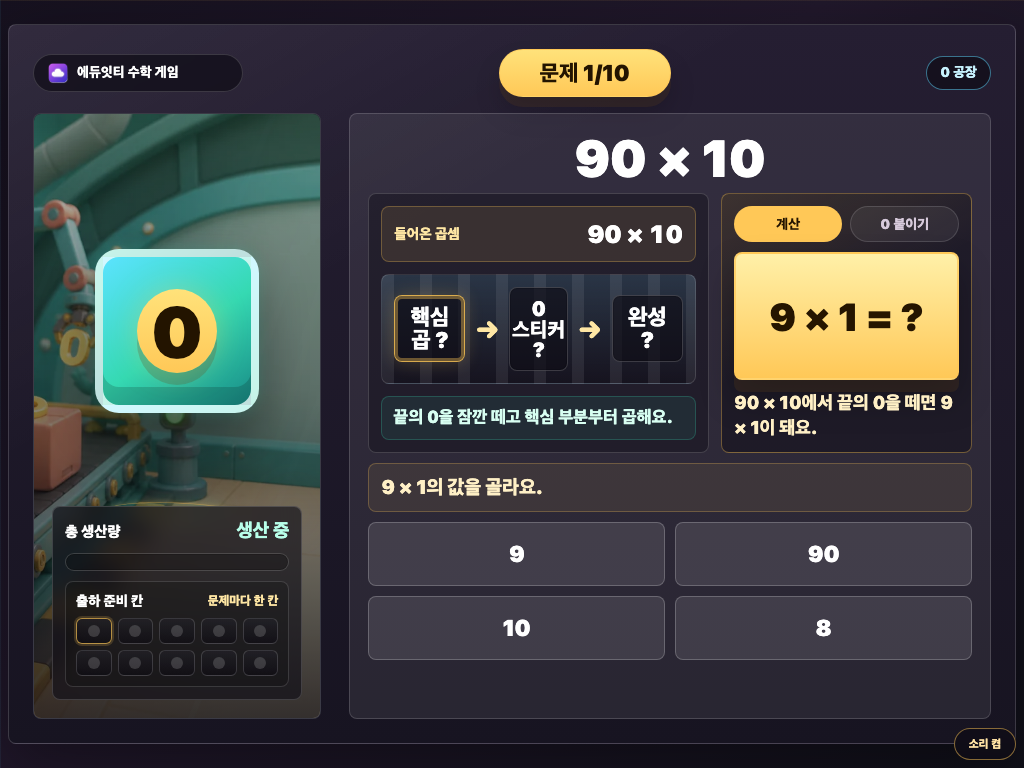
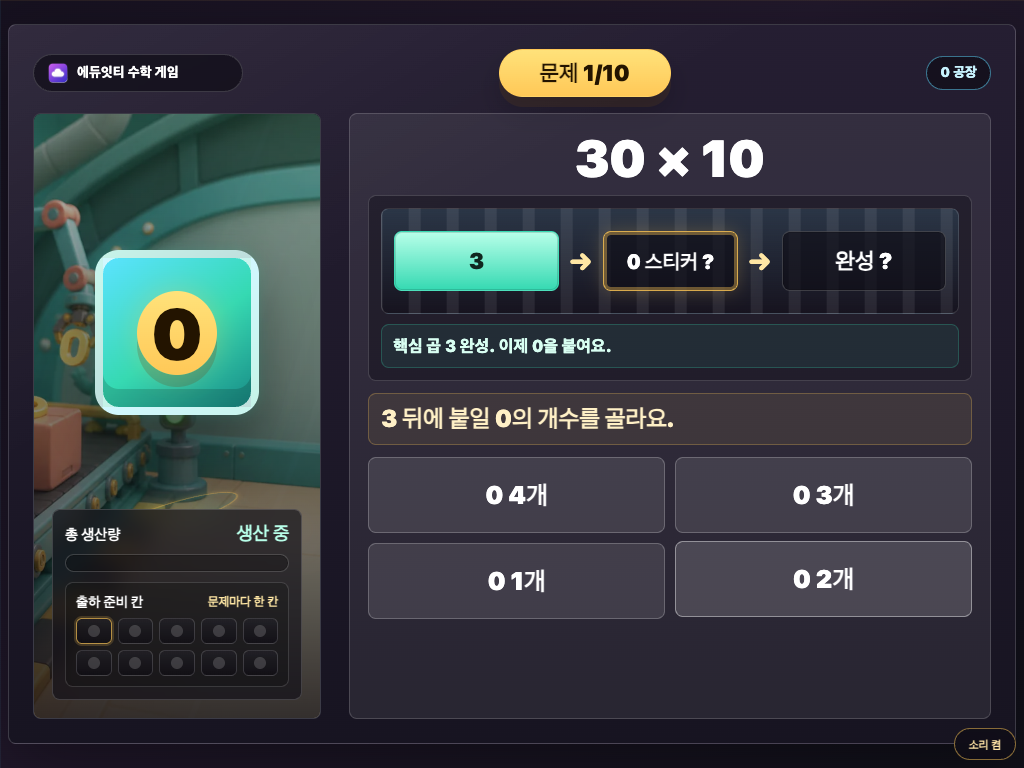
Simplify zero factory problem screen

diff --git a/3-2-1-3-mathmon-zero-factory/index.html b/3-2-1-3-mathmon-zero-factory/index.html
@@ -1119,8 +1119,8 @@
 
     .problem-panel {
       display: grid;
-      grid-template-rows: auto auto 1fr auto;
-      gap: 10px;
+      grid-template-rows: auto auto auto 1fr auto;
+      gap: 12px;
       padding: clamp(14px, 2vw, 18px);
     }
 
@@ -1156,14 +1156,13 @@
 
     .calc-stage {
       display: grid;
-      grid-template-columns: minmax(310px, 0.95fr) minmax(220px, 0.7fr);
-      gap: 12px;
+      grid-template-columns: minmax(0, 1fr);
+      gap: 0;
       align-items: stretch;
     }
 
-    .factory-board,
-    .step-panel {
-      min-height: 190px;
+    .factory-board {
+      min-height: 168px;
       padding: 12px;
       border: 1px solid var(--line);
       border-radius: var(--radius);
@@ -1172,13 +1171,13 @@
 
     .factory-board {
       display: grid;
-      grid-template-rows: auto 1fr auto;
-      gap: 12px;
+      grid-template-rows: 1fr auto;
+      gap: 10px;
       font-variant-numeric: tabular-nums;
     }
 
     .factory-card {
-      display: flex;
+      display: none;
       align-items: center;
       justify-content: space-between;
       gap: 12px;
@@ -1210,7 +1209,7 @@
       grid-template-columns: minmax(0, 1fr) 28px minmax(0, 0.82fr) 28px minmax(0, 1fr);
       align-items: center;
       gap: 8px;
-      min-height: 96px;
+      min-height: 106px;
       padding: 12px;
       overflow: hidden;
       border: 1px solid rgba(255, 255, 255, 0.14);
@@ -1292,9 +1291,9 @@
       border-radius: var(--radius);
       color: #d8fff2;
       background: rgba(53, 217, 178, 0.08);
-      font-size: clamp(0.94rem, 1.9vw, 1.08rem);
+      font-size: clamp(0.94rem, 1.8vw, 1.06rem);
       font-weight: 900;
-      line-height: 1.32;
+      line-height: 1.25;
     }
 
     .factory-machine {
@@ -1511,7 +1510,7 @@
     }
 
     .step-panel {
-      display: grid;
+      display: none;
       grid-template-rows: auto minmax(96px, 1fr) auto;
       gap: 10px;
       border-color: rgba(255, 200, 87, 0.36);
@@ -1588,7 +1587,7 @@
     }
 
     .prompt {
-      min-height: 44px;
+      min-height: 50px;
       display: flex;
       align-items: center;
       padding: 10px 12px;
@@ -1596,9 +1595,9 @@
       border-radius: var(--radius);
       background: rgba(255, 200, 87, 0.08);
       color: #fff0c6;
-      font-size: clamp(1.02rem, 2.1vw, 1.22rem);
+      font-size: clamp(1.18rem, 2.35vw, 1.5rem);
       font-weight: 950;
-      line-height: 1.35;
+      line-height: 1.24;
     }
 
     .choice-grid {
@@ -1609,15 +1608,15 @@
     }
 
     .choice-button {
-      min-height: 64px;
+      min-height: 76px;
       padding: 10px 12px;
       border: 1px solid rgba(255, 255, 255, 0.22);
       border-radius: var(--radius);
       background: rgba(255, 255, 255, 0.1);
       color: #ffffff;
-      font-size: clamp(1.05rem, 2.2vw, 1.46rem);
+      font-size: clamp(1.18rem, 2.45vw, 1.72rem);
       font-weight: 1000;
-      line-height: 1.22;
+      line-height: 1.12;
       transition: transform 0.12s ease, background 0.12s ease, border-color 0.12s ease;
     }
 
@@ -2859,7 +2858,7 @@
       el.corePart.className = "belt-part is-current";
       el.zeroStickerRow.className = "zero-sticker-row";
       el.finalPart.className = "belt-part";
-      el.factoryRule.textContent = "끝의 0을 잠깐 떼고 핵심 부분부터 곱해요.";
+      el.factoryRule.textContent = "끝의 0은 잠깐 떼고 계산해요.";
       el.feedbackText.textContent = "";
       el.feedbackText.className = "feedback";
       renderStatus();
@@ -2987,10 +2986,10 @@
           optionType: "core",
           formula: `${problem.coreLeft} × ${problem.coreRight} = ?`,
           correct: problem.core,
-          prompt: `${problem.coreLeft} × ${problem.coreRight}의 값을 골라요.`,
-          meaning: `${problem.factorA} × ${problem.factorB}에서 끝의 0을 떼면 ${problem.coreLeft} × ${problem.coreRight}이 돼요.`,
-          hint: `${problem.coreLeft} × ${problem.coreRight}만 먼저 계산해요.`,
-          explain: `${problem.coreLeft} × ${problem.coreRight} = ${problem.core.toLocaleString("ko-KR")}예요. 이제 0을 ${problem.zeros}개 붙이면 돼요.`,
+          prompt: `먼저 ${problem.coreLeft} × ${problem.coreRight}을 골라요.`,
+          meaning: "끝의 0은 잠깐 떼고 계산해요.",
+          hint: `${problem.coreLeft} × ${problem.coreRight}만 먼저 봐요.`,
+          explain: `${problem.coreLeft} × ${problem.coreRight} = ${problem.core.toLocaleString("ko-KR")}`,
           distractors: [
             problem.core + problem.coreRight,
             Math.max(0, problem.core - problem.coreRight),
@@ -3002,12 +3001,12 @@
           id: "zeros",
           label: "0 붙이기",
           optionType: "zeros",
-          formula: `${problem.core.toLocaleString("ko-KR")} 뒤에 0은 몇 개?`,
+          formula: "0을 몇 개 붙일까요?",
           correct: problem.zeros,
-          prompt: "처음 수 끝에 있던 0을 모두 세어 골라요.",
-          meaning: `${problem.factorA}에는 끝 0 ${problem.leftZeros}개, ${problem.factorB}에는 끝 0 ${problem.rightZeros}개가 있어요.`,
-          hint: `${problem.factorA}와 ${problem.factorB} 끝에 붙은 0을 한 수씩 세어 봐요.`,
-          explain: `0을 ${problem.leftZeros}+${problem.rightZeros}=${problem.zeros}개 붙이면 ${problem.core.toLocaleString("ko-KR")} → ${problem.answer.toLocaleString("ko-KR")}이 완성돼요.`
+          prompt: `${problem.core.toLocaleString("ko-KR")} 뒤에 붙일 0의 개수를 골라요.`,
+          meaning: "처음 두 수의 맨 끝 0만 세어요.",
+          hint: `맨 끝 0은 모두 ${problem.zeros}개예요.`,
+          explain: `0 ${problem.zeros}개를 붙여 ${problem.answer.toLocaleString("ko-KR")} 완성!`
         }
       ];
     }
@@ -3036,7 +3035,7 @@
         const values = [step.correct, Math.max(0, step.correct - 1), step.correct + 1, step.correct + 2];
         return shuffle([...new Set(values)].slice(0, 4).map((value) => ({
           value,
-          label: `<span>${value === 0 ? "붙이지 않기" : `0 ${value}개`}</span><small>${value === 0 ? "0 없음" : "0".repeat(value)}</small>`
+          label: value === 0 ? "붙이지 않기" : `0 ${value}개`
         })));
       }
       const values = [step.correct];
@@ -3113,13 +3112,13 @@
       if (step.id === "core") {
         el.corePart.textContent = problem.core.toLocaleString("ko-KR");
         el.corePart.classList.add("is-done");
-        el.factoryRule.textContent = `핵심 곱 ${problem.core.toLocaleString("ko-KR")}을 만들었어요. 이제 0 스티커를 붙여요.`;
+        el.factoryRule.textContent = `핵심 곱 ${problem.core.toLocaleString("ko-KR")} 완성. 이제 0을 붙여요.`;
       } else if (step.id === "zeros") {
         renderZeroStickers(problem.zeros);
         el.zeroStickerRow.classList.add("is-done");
         el.finalPart.textContent = problem.answer.toLocaleString("ko-KR");
         el.finalPart.classList.add("is-done");
-        el.factoryRule.textContent = `${problem.core.toLocaleString("ko-KR")} 뒤에 0을 ${problem.zeros}개 붙여 ${problem.answer.toLocaleString("ko-KR")} 완성!`;
+        el.factoryRule.textContent = `${problem.answer.toLocaleString("ko-KR")} 완성!`;
       }
       updateCurrentAnswerCell();
     }
@@ -3300,7 +3299,7 @@
         const button = document.createElement("button");
         button.type = "button";
         button.className = "choice-button";
-        button.innerHTML = option.label;
+        button.textContent = option.label;
         button.addEventListener("click", () => handler(option, button));
         el.choiceGrid.appendChild(button);
       });